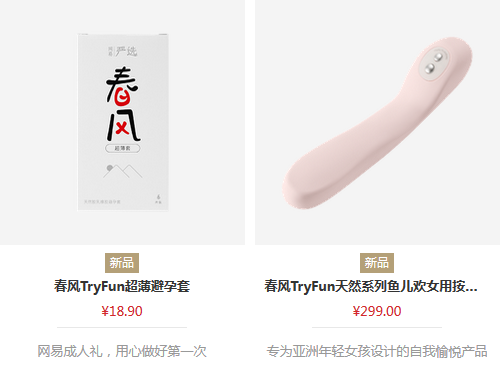
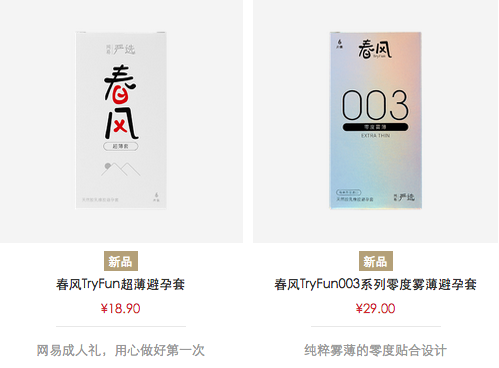
m

diff --git a/_posts/2017-10-28-shop-yanxuan-chunfeng.md b/_posts/2017-10-28-shop-yanxuan-chunfeng.md
@@ -1,0 +1,101 @@
+---
+layout: default
+title: 网易严选推出了情趣用品，看得我面红耳燥，不敢转
+author: lijiaocn
+createdate: 2017/10/28 14:38:01
+changedate: 2017/10/28 16:24:41
+categories: 好货
+tags: 好货
+keywords: 严选春风,女性情趣,情趣用品,网易情趣
+description: 如果你还不满十八岁，请你闭上眼。
+
+---
+
+* auto-gen TOC:
+{:toc}
+
+## 故事
+
+如果你还不满十八岁，请你闭上眼。
+
+不知道是哪一天，或许有过这么一天，网易邮箱事业部的人对丁磊说，老大，我们想做情趣用品。
+
+丁磊脸肥肥的，下巴也肥肥的，笑起来眯着眼、仰着头、露着牙，怔了一下。
+
+同事解释：自己开发，打磨产品，起个文艺的名儿，做个小清新的系列，挺好玩的。
+
+好玩，有意思，那就做呗。
+
+网易情趣用品诞生了，取名：春风。
+
+## 听说，那一天，网易的程序员都很嗨...
+
+开售的第一天，早上9点半。两位身穿制服的小姐姐走进网易大楼办公间，她们手里大大方方的拿着成人用品器具。来这里，分发给电脑前的程序猿。
+
+室外还有一场盛大的敏感词大趴...
+
+食色性也，继未央黑猪肉之后，网易的筒子们又有了新的福利...
+
+## 听说，严选上的评论很那个...
+
+作为一个忠诚的互联网爱好者，我很认真地点了开春风的链接: [严选春风][2]。
+
+第一批春风产品一共有9款，2款飞机杯、2款按摩器、5款避孕套。
+
+我都没有见过，我也不会用。
+
+[![情趣用品超薄避孕套1,网易严选春风]( {{ site.imglocal}}/yanxuan-chunfeng/1-2.png )][2]
+[![飞机杯与女性情趣用品1,网易严选春风]( {{ site.imglocal}}/yanxuan-chunfeng/3-4.png )][2]
+[![飞机杯与女性情趣用品2,网易严选春风]( {{ site.imglocal}}/yanxuan-chunfeng/5-6.png )][2]
+[![情趣用品超薄避孕套2,网易严选春风]( {{ site.imglocal}}/yanxuan-chunfeng/7-8.png )][2]
+[![情趣用品超薄避孕套3,网易严选春风]( {{ site.imglocal}}/yanxuan-chunfeng/9.png )][2]
+
+## 我的名字: “在云端”
+
+其中一款，有着云朵一样造型，叫做在云端。
+
+[![女性情趣按摩器，在云端，网易严选春风]( {{ site.imglocal}}/yanxuan-chunfeng/10-zaiyunduan.png )][3]
+
+看了看评价，感觉挺好的。
+
+[![女性情趣按摩器用户评价，在云端，网易严选春风]( {{ site.imglocal}}/yanxuan-chunfeng/11-zaiyunduan.png )][3]
+
+## 网易的文案是真心的好
+
+早就听说，网易的产品牛，文案好。看完后，真的觉得好。
+
+[![女性情趣自慰棒1，鱼儿欢，网易严选春风]( {{ site.imglocal}}/yanxuan-chunfeng/12-yuerhuan.png )][4]
+
+庄子的话，一直都那么应景儿。
+
+[![女性情趣自慰棒2，鱼儿欢，网易严选春风]( {{ site.imglocal}}/yanxuan-chunfeng/13-yuerhuan.png )][4]
+
+一个好的产品经理，也会认真关爱男性用户：
+
+[![男性情趣用品1，飞机杯，网易严选春风]( {{ site.imglocal}}/yanxuan-chunfeng/15-feijibei.png )][5]
+
+他说:
+
+[![男性情趣用品2，飞机杯，网易严选春风]( {{ site.imglocal}}/yanxuan-chunfeng/16-feijibei.png )][5]
+
+## 妈妈，我要十八岁了啦
+
+[![女性情趣自慰棒3，鱼儿欢，网易严选春风]( {{ site.imglocal}}/yanxuan-chunfeng/14-yuerhuan.png )][4]
+
+<p style="text-align:center">最牛推荐，不见不散～</p>
+
+[![最牛推荐]( {{ site.imglocal}}/z7z8day.png )][4]
+
+## 参考
+
+1. [丁磊大叔关于猪和春风的事儿][1]
+2. [严选春风][2]
+3. [在云端][3]
+4. [鱼儿乐][4]
+5. [小白兔飞机杯][5]
+
+[1]: https://news.futunn.com/market/60575 "丁磊大叔关于猪和春风的事儿" 
+[2]: https://c.duomai.com/track.php?k=jL19WeGJTJGJTJBNTJwRHdo1DdmA3boNnbj9WYppWas1DZpVXZmcDOwMTPklWYmAjMzUjMy0DZp9VZ0l2cmYiJFhTNyUyMBVjMlkTR1ITJ1EUNyUCO5UjMlYTR1ITJENTJkJ3b3lXZrZ0Mlg2YyFWZzZkMl02bj5yM2E "严选春风"
+[3]: https://c.duomai.com/track.php?k=BNTJwRHdo1DdmA3boNnbj9WYppWas1DZpVXZmcDOwMTPklWYmAjMzUjMy0DZp9VZ0l2cmYiJ1ADM0MzMxQ0MlQWaGNTJslWY0VGZGJTJtVGdpZkMl02bj5yM2EjL19WeGJTJGJTJ "在云端"
+[4]: https://c.duomai.com/track.php?k=BNTJwRHdo1DdmA3boNnbj9WYppWas1DZpVXZmcDOwMTPklWYmAjMzUjMy0DZp9VZ0l2cmYiJzADM0MzMxQ0MlQWaGNTJslWY0VGZGJTJtVGdpZkMl02bj5yM2EjL19WeGJTJGJTJ "鱼儿乐"
+[5]: https://c.duomai.com/track.php?k=BNTJwRHdo1DdmA3boNnbj9WYppWas1DZpVXZmcDOwMTPklWYmAjMzUjMy0DZp9VZ0l2cmYiJzADMzMzMxQ0MlQWaGNTJslWY0VGZGJTJtVGdpZkMl02bj5yM2EjL19WeGJTJGJTJ "小白兔飞机杯"
